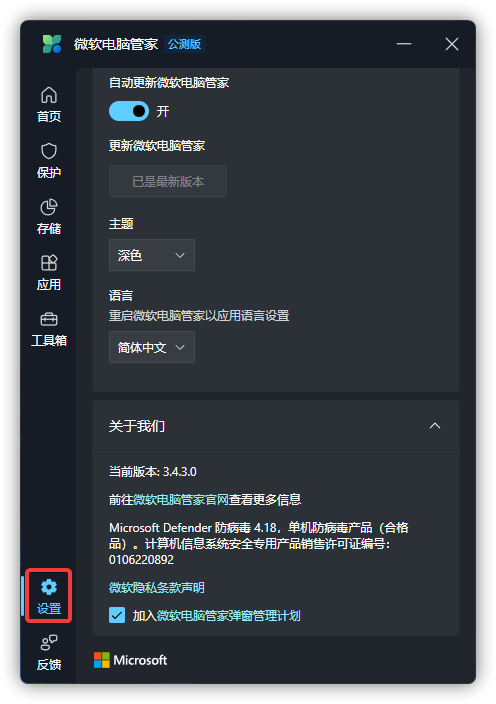
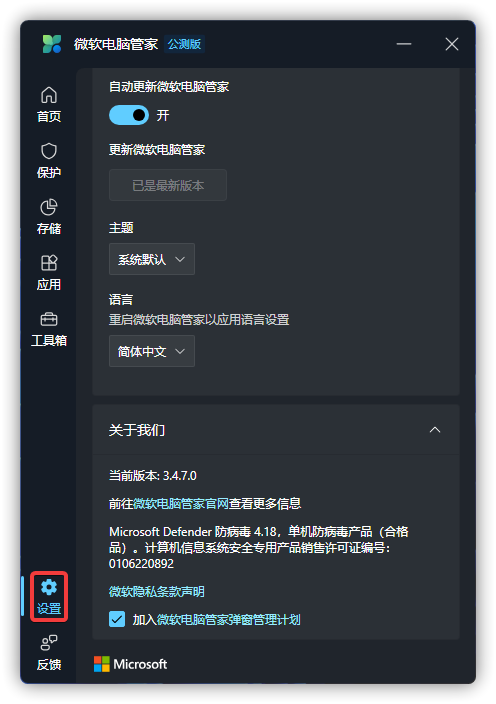
添加“缺少弹窗管理选项”与“深度清理中“应用缓存”可选清理少”，修该版本号与示例图片

diff --git a/docs/appendix/check-version.md b/docs/appendix/check-version.md
@@ -1,9 +1,9 @@
 # 公开最新版本号及查询方式
 最新版本号以社区版本为准，从 1.2.x 以后，版本号将统一简写，默认省略开头的 1.。
 
-2023 年 07 月 28 日更新，版本号为 3.4.3.0。
+2023 年 08 月 16 日更新，版本号为 3.4.7.0。
 
-上一个版本为：3.4.1.0，2023 年 07 月 17 日更新。（NaN 即为未知日期）
+上一个版本为：3.4.6.0，2023 年 08 月 08 日更新。（NaN 即为未知日期）
 
 <font size=1>* 内部版本号将不再提供。</font>
 

diff --git a/docs/get-started/about.md b/docs/get-started/about.md
@@ -17,7 +17,7 @@
 
 微软电脑管家官网：https://pcmanager.microsoft.com
 
-微软电脑管家英文站点：https://pcmanager-en.microsoft.com
+微软电脑管家英文站点：https://pcmanager.microsoft.com/en-us
 
 社群渠道专属下载链接：https://aka.ms/PCManagerOFL30101
 
